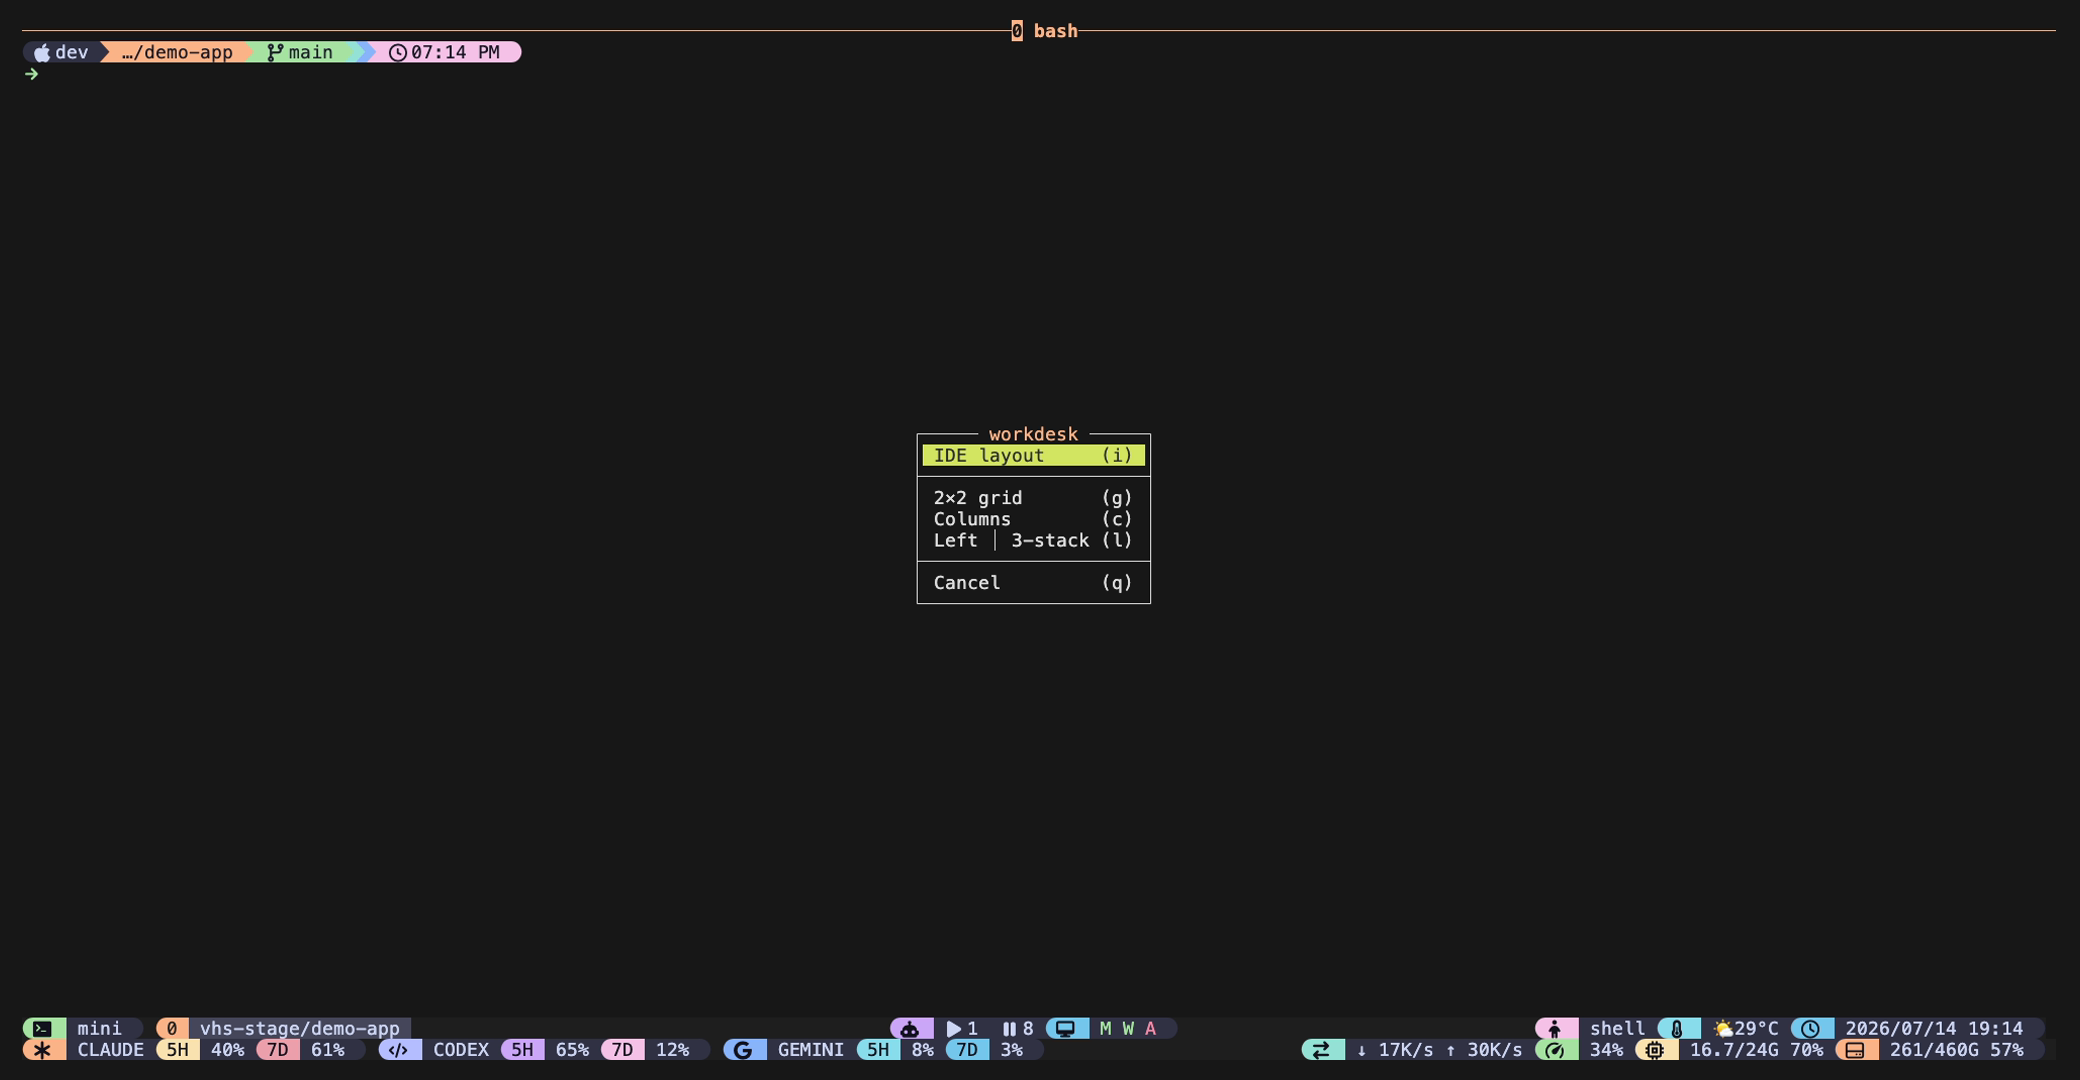
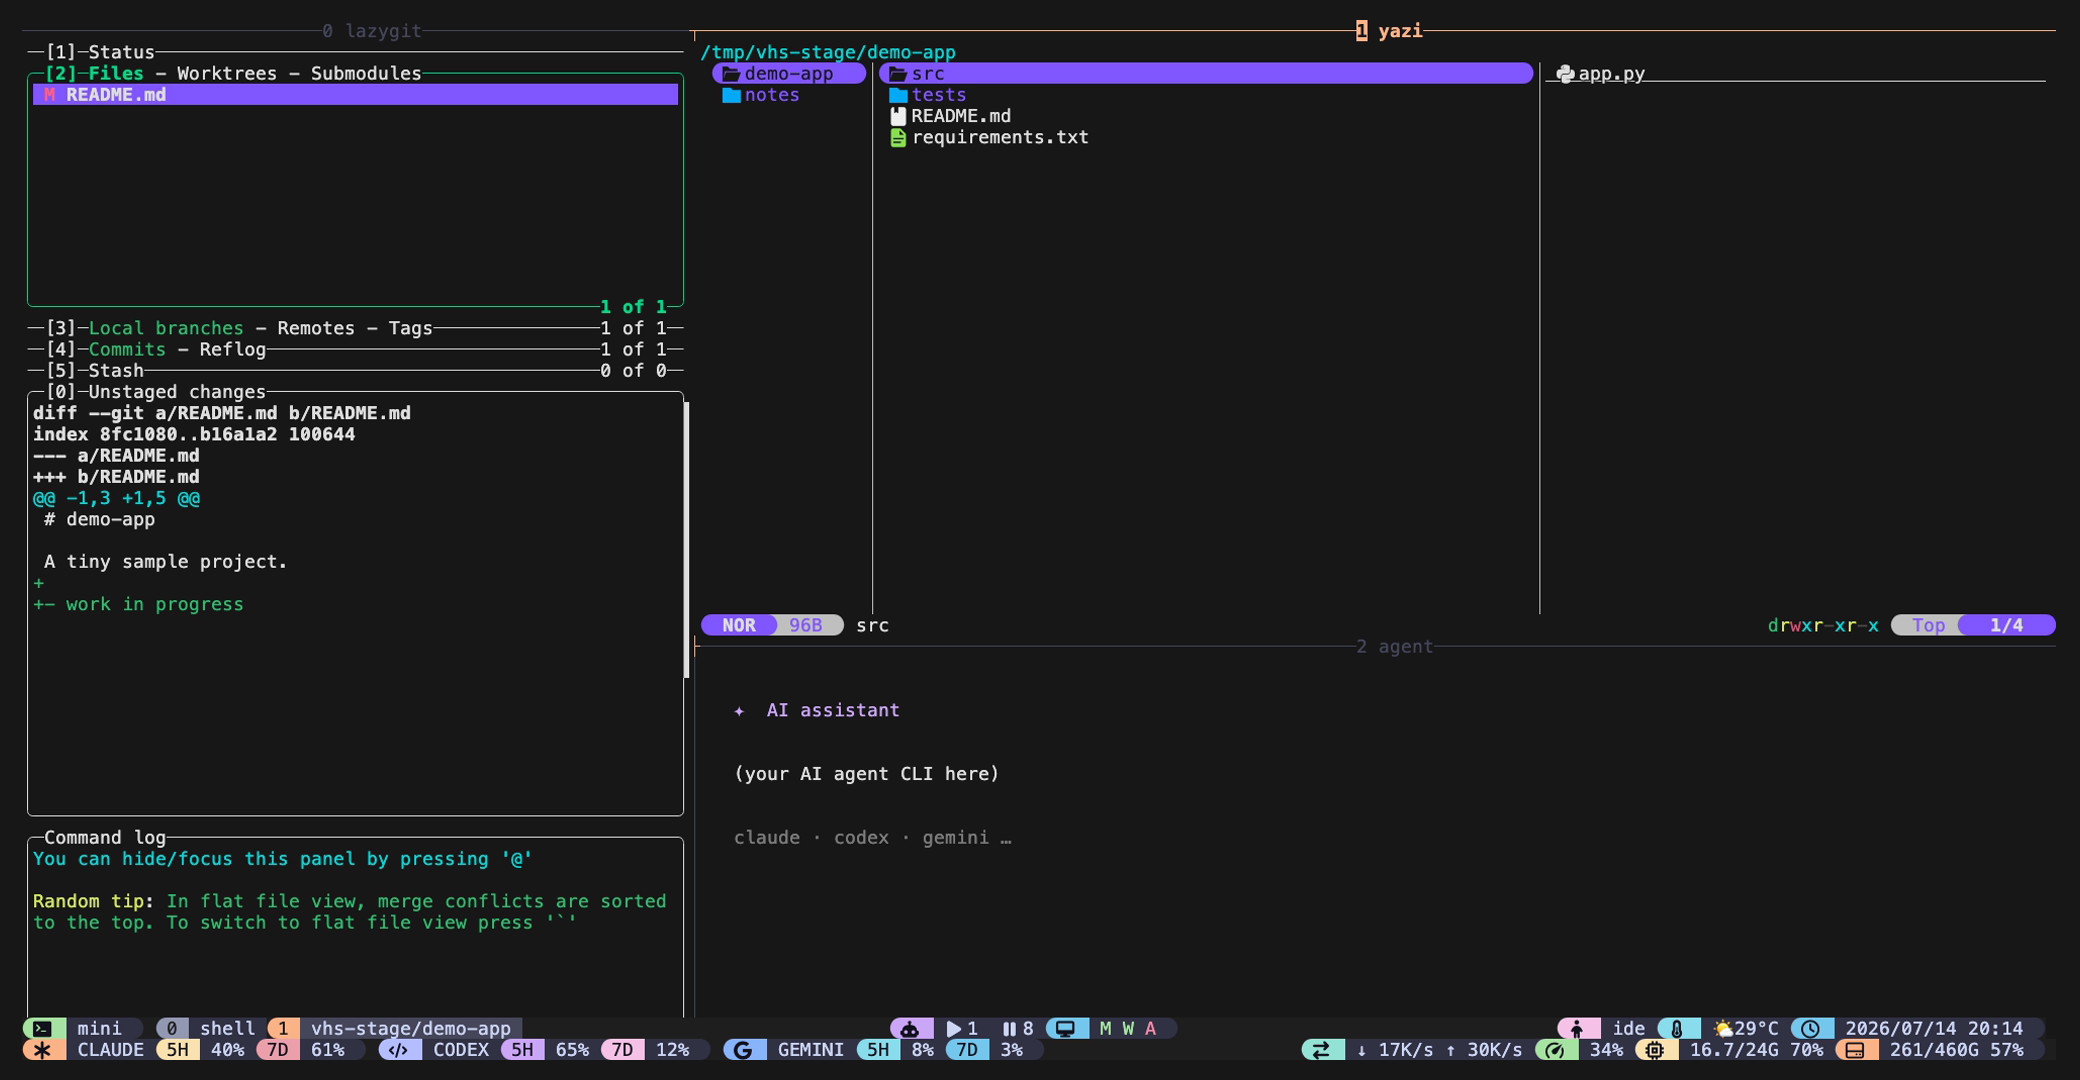
docs: demo walks every layout (grid/columns/l3/IDE) + IDE hero
- demo.gif: prefix+g (2×2 grid) -> prefix+e (columns) -> prefix+a (left|3-stack)
  -> prefix+i (IDE). The three geometry layouts reflow the SAME panes; e/a are
  the README's recommended free keys (bound in demo-setup). New ⌃B G/E/A bezels.
- screenshot.png: the IDE layout as the hero (menu is no longer the story);
  README hero alt/caption updated to describe it, pointing at the demo for the
  geometry layouts.

Frame-audited: all four layouts render, geometry reflow preserves panes, IDE
money shot intact, zero identity leaks.

diff --git a/docs/keycast-bezel.py b/docs/keycast-bezel.py
@@ -52,6 +52,9 @@ class Variant:
 VARIANTS: Final = (
     Variant("bezel-cb.png", "⌃B", 1),
     Variant("bezel-cbi.png", "⌃B I", None),
+    Variant("bezel-cbg.png", "⌃B G", None),
+    Variant("bezel-cbe.png", "⌃B E", None),
+    Variant("bezel-cba.png", "⌃B A", None),
     Variant("bezel-cb0.png", "⌃B 0", None),
 )
 

diff --git a/README.md b/README.md
@@ -7,9 +7,9 @@ it and your window rearranges into that layout. No menu to navigate by default;
 just `prefix + i` for the IDE layout, `prefix + g` for a 2×2 grid, and so on. The
 layouts are the point; you decide what runs in the panes.
 
-![tmux-workdesk's layouts — IDE layout, 2×2 grid, Columns, Left | 3-stack](docs/screenshot.png)
+![tmux-workdesk's IDE layout — a git TUI on the left, a file manager over an AI-agent slot on the right (example tools; the slots are yours to fill)](docs/screenshot.png)
 
-*Each layout is one prefix key away: `prefix + i` opens the IDE layout, `prefix + g` rearranges the current window into a 2×2 grid.*
+*The IDE layout, one prefix key away (`prefix + i`) — here with the slots opted into example tools. The geometry layouts (2×2 grid, columns, left │ 3-stack) are shown in the [demo](#demo) below.*
 
 ## What is this?
 